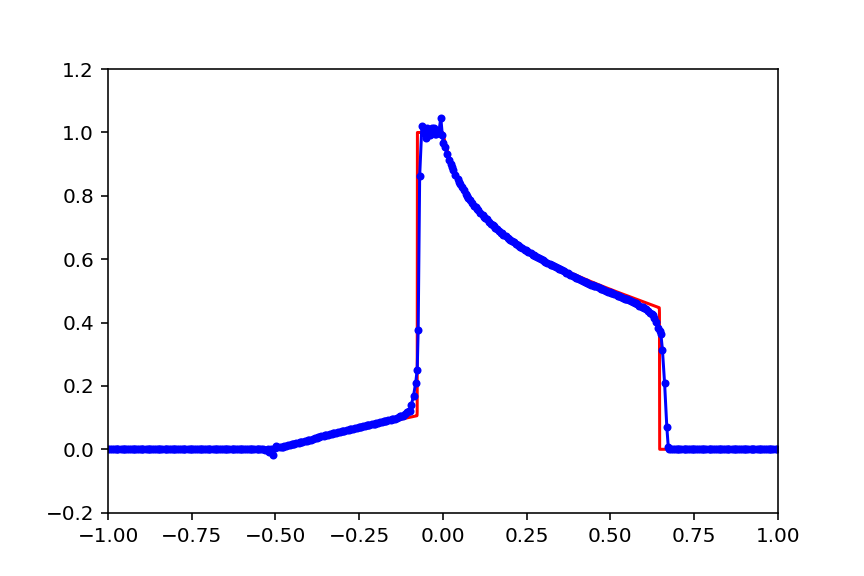
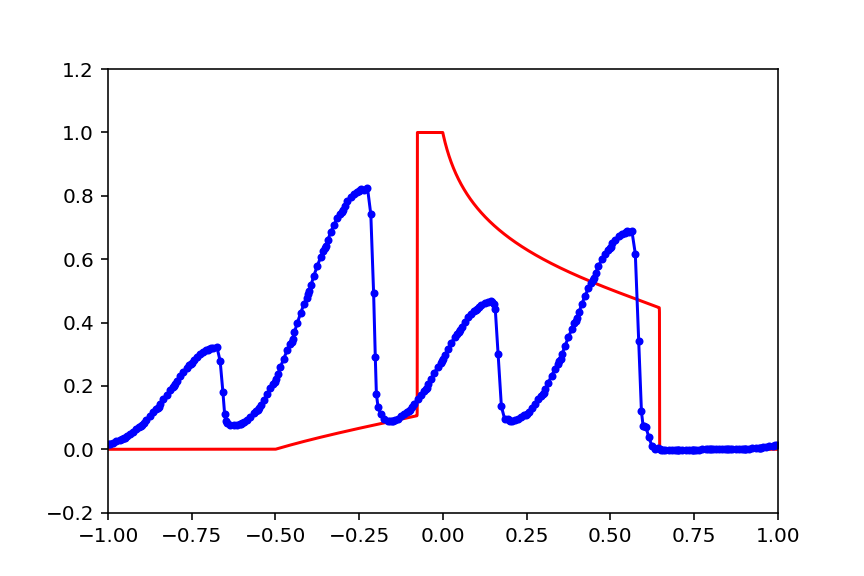
clean up needed

diff --git a/Galerkin_systeme/display.py b/Galerkin_systeme/display.py
@@ -39,7 +39,7 @@ dec = 0
 X_cell[-1]=1.
 
 
-for k in range(0,sm,1):
+for k in range(0,sm,5):
     for i in range(0,nx): 
         X[i] = lines1[k*(nx+1) + i][0:10]
         U_t[k][i][0]   = lines1[k*(nx+1) +i][10:27]
@@ -68,9 +68,9 @@ for k in range(0,sm,1):
         1+1
         #plt.plot([X_cell[i],X_cell[i]],[-1,2],linestyle='--', color='gray')
     #plt.plot(X_midcell,U_cell[k,:,0], marker='.')
-    #plt.plot(X,U_t[k,:,0],'b-.')
+    plt.plot(X,U_t[0,:,0],'g-')
     plt.plot(X,U_t[k,:,0],'b', marker='.')
-    plt.plot(X,U_ex[k,:,0],'g-')
+    #plt.plot(X,U_ex[k,:,0],'g-')
     #plt.plot(X,abs(U_t[k,:,0]-U_ex[k,:,0]),'k-')
     #print(max(abs(U_t[k,:,0]-U_ex[k,:,0])))
     print(sum(U_t[k,:,0]))
@@ -103,7 +103,7 @@ for k in range(0,sm,1):
 
 
 
-if(True):
+if(False):
     with open('sol_ex/buckley.dat') as f:
         lines = f.readlines()
         
